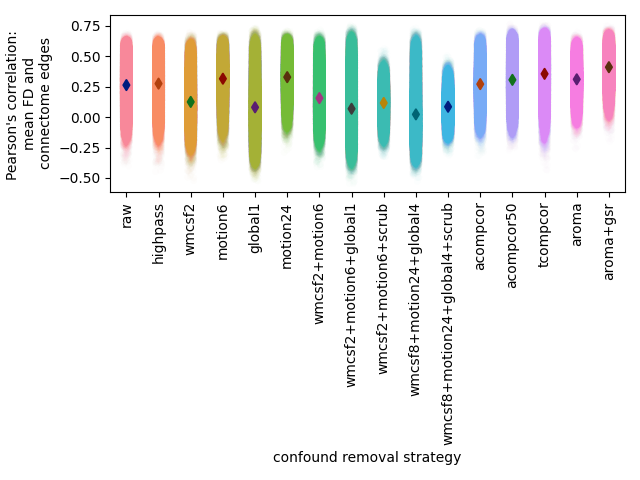
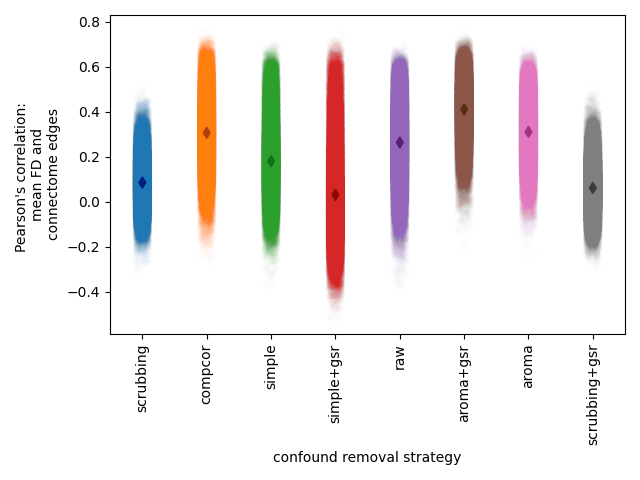
search for data using created inputs, rather than defined labels

diff --git a/code/denoise_metrics.py b/code/denoise_metrics.py
@@ -30,22 +30,22 @@ def main():
     strategy_file = Path(__file__).parents[1] / STRATEGY
     output = Path(__file__).parents[1] / OUTPUT
     input_connectomes = Path(__file__).parents[1] / INPUT
-    # read the strategy deining files
-    with open(strategy_file, "r") as file:
-        benchmark_strategies = json.load(file)
 
+    metric_per_edge, sig_per_edge = pd.DataFrame(), pd.DataFrame()
     with tarfile.open(input_connectomes, 'r:gz') as tar:
         movement = tar.extractfile('dataset-ds000288/dataset-ds000288_desc-movement_phenotype.tsv').read()
         movement = pd.read_csv(io.BytesIO(movement),
                                sep='\t', index_col=0, header=0, encoding='utf8')
-
-
-    metric_per_edge, sig_per_edge = pd.DataFrame(), pd.DataFrame()
+        benchmark_strategies = []
+        for member in tar.getmembers():
+            filename = member.name.split('/')[-1]
+            if "data.tsv" in filename:
+                strategy = filename.split('desc-')[-1].split('_data')[0]
+                benchmark_strategies.append(strategy)
 
     for strategy_name in benchmark_strategies:
-        print(strategy_name)
         with tarfile.open(input_connectomes, 'r:gz') as tar:
-            connectome = tar.extractfile(f'dataset-ds000288/atlas-schaefer/dataset-ds000288_atlas-schaefer7networks_nroi-400_desc-{strategy_name}_data.tsv').read()
+            connectome = tar.extractfile(f'dataset-ds000288/atlas-schaefer7networks/dataset-ds000288_atlas-schaefer7networks_nroi-400_desc-{strategy_name}_data.tsv').read()
             dataset_connectomes = pd.read_csv(io.BytesIO(connectome), sep='\t', index_col=0, header=0)
         # QC-FC per edge
         cur_qc_fc, cur_sig = quality_control_connectivity(movement, dataset_connectomes)

diff --git a/README.md b/README.md
@@ -7,5 +7,9 @@ The aim is to evaluate the impact of denoising strategy on functional connectivi
 
 - All inputs (i.e. building blocks from other sources) are located in
   `inputs/`.
-  Processed data for development can be found here: [![DOI](https://zenodo.org/badge/DOI/10.5281/zenodo.5761931.svg)](https://doi.org/10.5281/zenodo.5761931)
+  Processed data for development can be found here:
+
+  [![DOI](https://zenodo.org/badge/DOI/10.5281/zenodo.5764254.svg)](https://doi.org/10.5281/zenodo.5764254)
+
+
 - All custom code is located in `code/`.
